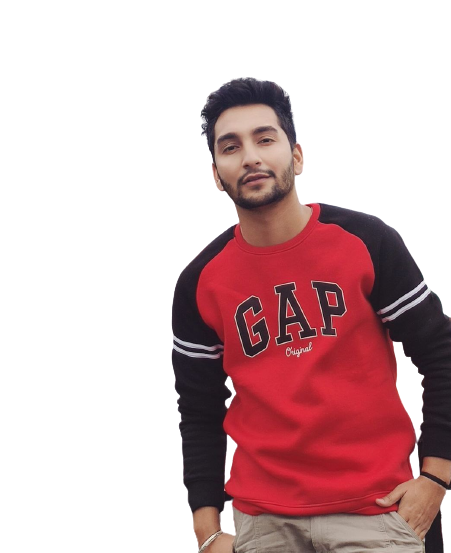
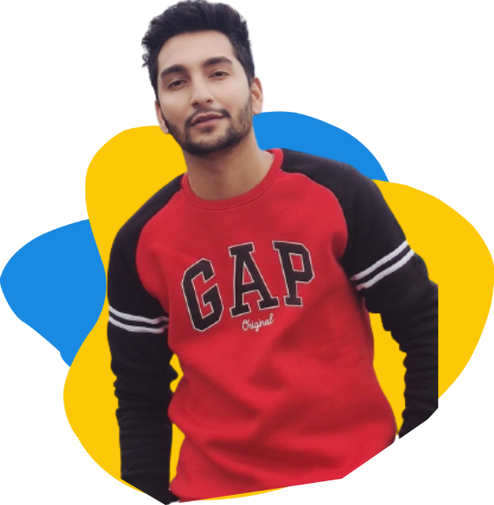
my final submition

diff --git a/src/Components/Intro/Intro.jsx b/src/Components/Intro/Intro.jsx
@@ -1,30 +1,16 @@
 
 import "./Intro.css";
-import Vector1 from "../../images/Vector1.png";
-import Vector2 from "../../images/Vector2.png";
-import boy from "../../images/me.png";
-import glassesimoji from "../../images/glassesimoji.png";
-import thumbup from "../../images/thumbup.png";
-import crown from "../../images/crown.png";
-import FloatinDiv from "../FloatingDiv/FloatingDiv";
+import boy from "../..//images/me.png";
 import Github from "../../images/github.png";
 import LinkedIn from "../../images/linkedin.png";
 import Instagram from "../../images/instagram.png";
-import { motion } from "framer-motion";
 import { Link } from "react-scroll";
 const Intro = () => {
-  // Transition
-  const transition = { duration: 2, type: "spring" };
-
-  // context
-
-
   return (
     <div className="Intro" id="Intro">
       {/* left name side */}
       <div className="i-left">
         <div className="i-name">
-          {/* yahan change hy darkmode ka */}
           <span>Hy! I Am</span>
           <span>Anshul Mankotia</span>
           <span>
@@ -46,38 +32,8 @@ const Intro = () => {
       </div>
       {/* right image side */}
       <div className="i-right">
-        <img src={Vector1} alt="" />
-        <img src={Vector2} alt="" />
+       
         <img src={boy} alt="" />
-        {/* animation */}
-        <motion.img
-          initial={{ left: "-36%" }}
-          whileInView={{ left: "-24%" }}
-          transition={transition}
-          src={glassesimoji}
-          alt=""
-        />
-
-        <motion.div
-          initial={{ top: "-4%", left: "68%" }}
-          whileInView={{ left: "51%" }}
-          transition={transition}
-          className="floating-div"
-        >
-          <FloatinDiv img={crown} text1="Web" text2="Developer" />
-        </motion.div>
-
-        {/* animation */}
-        <motion.div
-          initial={{ left: "9rem", top: "22rem" }}
-          whileInView={{ left: "0rem" }}
-          transition={transition}
-          className="floating-div"
-        >
-          {/* floatinDiv mein change hy dark mode ka */}
-          <FloatinDiv img={thumbup} text1="Web" text2="Designing"/>
-        </motion.div>
-
         <div className="blur" style={{ background: "rgb(238 210 255)" }}></div>
         <div
           className="blur"

diff --git a/src/Components/Intro/Intro.css b/src/Components/Intro/Intro.css
@@ -2,6 +2,7 @@
     display: flex;
     min-height: 60vh;
     margin-top: 15rem;
+    align-items: center;
   }
   
   /* left side styling */
@@ -44,44 +45,22 @@
     gap: 0rem;
   }
   .i-icons > * {
-    transform: scale(0.5);
+    transform: scale(0.6);
   }
   .i-icons > *:hover {
     cursor: pointer;
   }
   /* right side styling */
-  .i-right {
+  .i-right{
+    display: flex;
+    align-items: center;
+    justify-content: center;
     flex: 1;
-    position: relative;
   }
-  .i-right > * {
-    position: absolute;
-    z-index: 1;
+  .i-right img{
+    width: 100%;
   }
-  .i-right > :nth-child(1) {
-    transform: scale(0.69);
-    left: -15%;
-    top: -9%;
-  }
-  .i-right > :nth-child(2) {
-    top: -4.6rem;
-    transform: scale(0.67);
-    left: -3rem;
-  }
-  .i-right > :nth-child(3) {
-    transform: scale(1.4);
-    left: -3%;
-    top: -16%;
-    clip-path: polygon(50% 0%, 108% 0, 146% 36%, 98% 78%, 82% 87%, 49% 91%, 26% 80%, 0 80%, 5% 40%, 0 0);
-}
-  .i-right > :nth-child(4) {
-    transform: scale(0.62);
-    top: -19%;
-    left: -24%;
-    border-radius: 50%;
-    padding: 0;
-  }
-  
+ 
   /* blur */
   .blur {
     position: absolute;
@@ -105,17 +84,8 @@
         height: 64rem;
         margin-top: 7rem;
       }
-    
-      .i-right {
-        transform: scale(0.8);
-        left: -4rem;
-      }
       .i-right .blur {
         display: none;
-      }
-      .floating-div:nth-of-type(1){
-        /* display: none; */
-        top: -7rem !important;;
       }
       .i-name > :nth-child(1) {
         font-size: 3rem;
@@ -126,6 +96,7 @@
       .i-name > :nth-child(3) {
         font-size: 16px;
       }
+     
 }
 
 /* for tablets */
@@ -137,16 +108,8 @@
     margin-top: 7rem;
   }
 
-  .i-right {
-    transform: scale(0.8);
-    left: -9rem;
-  }
   .i-right .blur {
     display: none;
-  }
-  .floating-div:nth-of-type(1){
-    /* display: none; */
-    top: -15rem !important;;
   }
   .i-name > :nth-child(1) {
     font-size: 3rem;
@@ -157,5 +120,6 @@
   .i-name > :nth-child(3) {
     font-size: 16px;
   }
+ 
 }
 

diff --git a/src/Components/Services/Services.css b/src/Components/Services/Services.css
@@ -99,7 +99,7 @@ br{
   /* tablet design  */
   @media (min-width:681px) and (max-width:1181px) {
     .services {
-      margin-top: -27vh;
+      margin-top: 0vh;
       flex-direction: column;
       gap: 5rem;
       height: 66rem;

diff --git a/src/Components/Mobilenav/Mobilenav.css b/src/Components/Mobilenav/Mobilenav.css
@@ -56,6 +56,7 @@ nav {
 	header .nav-btn {
 		visibility: visible;
 		opacity: 1;
+		font-size: 2rem;
 	}
 
 	header nav {
